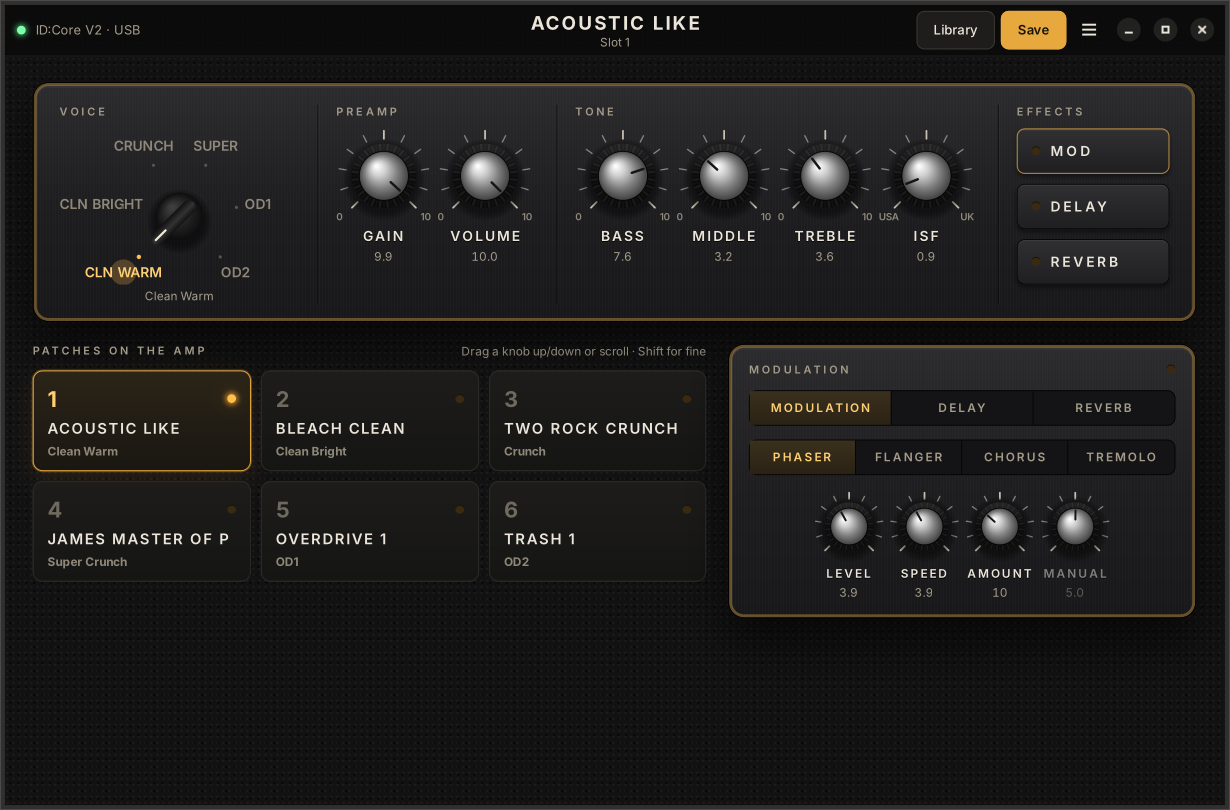
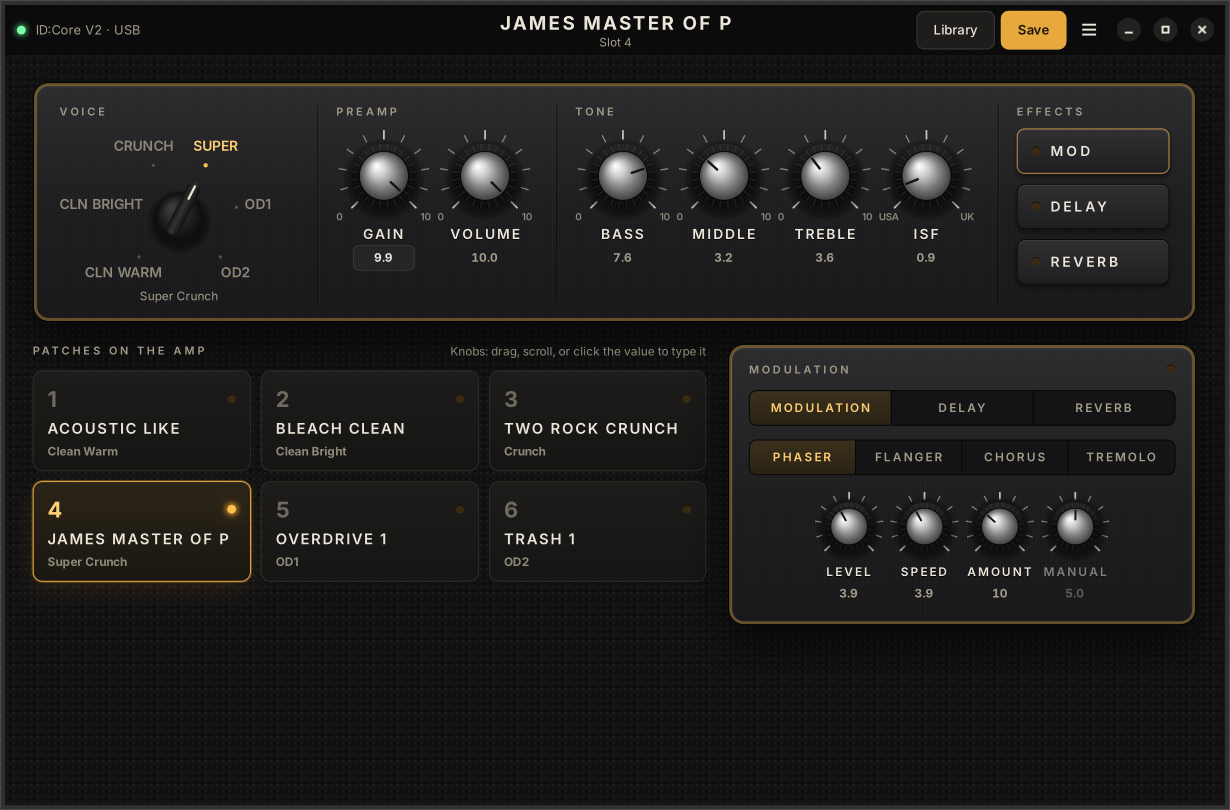
Make the knobs easier to set
Click a knob's value (or double-click the knob) for a popover with a
wide slider and a number field. Dragging works on both axes over a
longer travel, and a wheel notch moves 0.2 (Shift for the finest step).
Also round the ends of the segmented buttons and drop the halo behind
the selected voice.

diff --git a/bsamp/widgets.py b/bsamp/widgets.py
@@ -84,12 +84,16 @@ class Knob(Gtk.DrawingArea):
         self.grab_focus()
 
     def on_drag_update(self, g, dx, dy):
+        # Up or right turns it up; a full turn takes ~250 px (Shift: 4x finer)
         fine = g.get_current_event_state() & Gdk.ModifierType.SHIFT_MASK
-        span = (self.hi - self.lo) / (800 if fine else 200)
-        self.user_set(self._v0 - dy * span)
+        span = (self.hi - self.lo) / (1000 if fine else 250)
+        self.user_set(self._v0 + (dx - dy) * span)
 
     def on_scroll(self, c, dx, dy):
-        self.user_set(self.value - (1 if dy > 0 else -1) * self.step)
+        # One wheel notch = 0.2 on the 0-10 scale (Shift: the smallest step)
+        fine = c.get_current_event_state() & Gdk.ModifierType.SHIFT_MASK
+        step = self.step if fine else max(self.step, round((self.hi - self.lo) / 50))
+        self.user_set(self.value - (1 if dy > 0 else -1) * step)
         return True
 
     def on_key(self, c, keyval, code, state):
@@ -181,13 +185,27 @@ class Knob(Gtk.DrawingArea):
             cr.stroke()
 
 
-class KnobControl(Gtk.Box):
-    """Knob with its engraved name and a value readout."""
+# How a raw control value is shown and typed: (to display, from display,
+# display min, display max, step, digits, unit)
+UNITS = {
+    'knob': (lambda v: v / 12.7, lambda d: round(d * 12.7), 0, 10, 0.1, 1, ''),
+    'seg': (float, round, 0, 31, 1, 0, ''),
+    'ms': (float, lambda d: int(round(d / 10) * 10), 100, 2000, 10, 0, ' ms'),
+}
 
-    def __init__(self, label, lo, hi, fmt, size=96, ends=('0', '10')):
-        super().__init__(orientation=Gtk.Orientation.VERTICAL, spacing=4,
+
+class KnobControl(Gtk.Box):
+    """Knob with its engraved name and a value readout.
+
+    Besides dragging and scrolling, clicking the readout (or double-clicking
+    the knob) opens a popover with a wide slider and a number field."""
+
+    def __init__(self, label, lo, hi, kind, size=96, ends=('0', '10')):
+        super().__init__(orientation=Gtk.Orientation.VERTICAL, spacing=2,
                          halign=Gtk.Align.CENTER)
-        self.fmt = fmt
+        self.kind = kind
+        self.to_disp, self.from_disp, dlo, dhi, step, digits, self.unit = UNITS[kind]
+        self.digits = digits
         self.add_css_class('knob-control')
         over = Gtk.Overlay()
         self.knob = Knob(lo, hi, size, label=label)
@@ -202,15 +220,52 @@ class KnobControl(Gtk.Box):
         name = Gtk.Label(label=label.upper())
         name.add_css_class('knob-name')
         self.append(name)
-        self.readout = Gtk.Label()
-        self.readout.add_css_class('knob-value')
+
+        # readout = button that opens the fine-edit popover
+        self.readout = Gtk.Button(halign=Gtk.Align.CENTER, tooltip_text='Set exact value')
+        self.readout.add_css_class('knob-value-btn')
+        pop = self.popover = Gtk.Popover()
+        box = Gtk.Box(spacing=10, margin_top=10, margin_bottom=10, margin_start=12, margin_end=12)
+        self.adj = Gtk.Adjustment(lower=dlo, upper=dhi, step_increment=step,
+                                  page_increment=step * 10)
+        scale = Gtk.Scale(orientation=Gtk.Orientation.HORIZONTAL, adjustment=self.adj,
+                          draw_value=False, width_request=260)
+        spin = Gtk.SpinButton(adjustment=self.adj, digits=digits, numeric=True, width_chars=5)
+        spin.connect('activate', lambda *_: pop.popdown())
+        box.append(Gtk.Label(label=label))
+        box.append(scale)
+        box.append(spin)
+        pop.set_child(box)
+        pop.connect('show', lambda *_: spin.grab_focus())
+        pop.set_parent(self.readout)
+        self.readout.connect('clicked', lambda *_: pop.popup())
         self.append(self.readout)
-        self.knob.connect('changed', lambda _k, v: self.readout.set_label(fmt(v)))
-        self.readout.set_label(fmt(lo))
+        self._syncing = False
+        self.adj.connect('value-changed', self.on_adj)
+
+        dbl = Gtk.GestureClick()
+        dbl.connect('pressed', lambda g, n, x, y: n == 2 and pop.popup())
+        self.knob.add_controller(dbl)
+        self.knob.connect('changed', lambda _k, v: self.sync(v))
+        self.sync(lo)
+
+    def text(self, v):
+        d = self.to_disp(v)
+        return (f'{d:.{self.digits}f}' if self.digits else str(int(d))) + self.unit
+
+    def sync(self, v):
+        self.readout.set_label(self.text(v))
+        self._syncing = True
+        self.adj.set_value(self.to_disp(v))
+        self._syncing = False
+
+    def on_adj(self, adj):
+        if not self._syncing:
+            self.knob.user_set(self.from_disp(adj.get_value()))
 
     def set_value(self, v):
         self.knob.set_value(v)
-        self.readout.set_label(self.fmt(self.knob.value))
+        self.sync(self.knob.value)
 
     def connect_changed(self, cb):
         self.knob.connect('changed', lambda _k, v: cb(v))
@@ -296,10 +351,6 @@ class VoiceSelector(Gtk.DrawingArea):
             layout.set_text(text, -1)
             tw, th = layout.get_pixel_size()
             lx, ly = polar(cx, cy, r, self.angle(i))
-            if on:
-                cr.set_source_rgba(*rgb('#ffbf4d', 0.25))
-                cr.arc(lx, ly, 13, 0, 2 * math.pi)
-                cr.fill()
             cr.set_source_rgba(*rgb('#ffcf73' if on else '#8f8879'))
             cr.move_to(lx - tw / 2, ly - th / 2)
             PangoCairo.show_layout(cr, layout)

diff --git a/bsamp/gui.py b/bsamp/gui.py
@@ -59,6 +59,11 @@ window.amp, window.amp .amp-bg {
 .knob-name { font-family: "Barlow Condensed"; font-weight: 600; font-size: 14px; letter-spacing: 2px; color: #ece6da;
              text-shadow: 0 1px 0 rgba(0,0,0,.8); }
 .knob-value { font-family: Barlow; font-size: 12px; color: #a59c8a; font-feature-settings: "tnum"; }
+button.knob-value-btn { min-height: 24px; min-width: 44px; padding: 0 8px; border-radius: 6px; background: none;
+                           border: 1px solid transparent; box-shadow: none; color: #a59c8a;
+                           font-family: Barlow; font-size: 12px; font-feature-settings: "tnum"; }
+button.knob-value-btn:hover { border-color: #3a372f; background: rgba(255,255,255,.04); color: #ece6da; }
+button.knob-value-btn:active { border-color: #e7a83e; color: #ffcf73; }
 .knob-end { font-family: "Barlow Condensed"; font-weight: 600; font-size: 10px; color: #8f8879; }
 .small .knob-name { font-size: 12px; }
 
@@ -85,6 +90,8 @@ button.tile.on { border-color: #e7a83e; background-image: linear-gradient(180deg
 .tile-voice, .hint { font-family: Barlow; font-size: 12px; color: #8f8879; }
 
 .seg { border-radius: 8px; border: 1px solid #050505; background: #141416; }
+.seg button:first-child { border-top-left-radius: 7px; border-bottom-left-radius: 7px; }
+.seg button:last-child { border-top-right-radius: 7px; border-bottom-right-radius: 7px; }
 .seg button { min-height: 34px; padding: 0 10px; border-radius: 0; border: none; border-right: 1px solid #050505;
               background: none; box-shadow: none; color: #a59c8a;
               font-family: "Barlow Condensed"; font-weight: 600; font-size: 12px; letter-spacing: 2px; }
@@ -102,14 +109,6 @@ button.amp-btn.primary:hover { background: #f0b552; }
 .lib-row { padding: 12px; border-radius: 10px; background: #1e1d1b; border: 1px solid #2b2925; }
 .lib-name { font-family: "Barlow Condensed"; font-weight: 600; font-size: 15px; letter-spacing: 1.5px; }
 """
-
-
-def fmt_for(kind):
-    if kind == 'knob':
-        return lambda v: f'{v / 12.7:.1f}'
-    if kind == 'ms':
-        return lambda v: f'{int(v)} ms'
-    return lambda v: str(int(v))
 
 
 def load_fonts():
@@ -248,7 +247,7 @@ class Window(Adw.ApplicationWindow):
 
     def knob(self, ctl, title, kind, size=96, ends=('0', '10')):
         _cid, lo, hi = A.CONTROLS[ctl]
-        k = KnobControl(title, lo, hi, fmt_for(kind), size, ends)
+        k = KnobControl(title, lo, hi, kind, size, ends)
         if size < 96:
             k.add_css_class('small')
         k.connect_changed(lambda v, ctl=ctl: self.queue(ctl, v))
@@ -303,7 +302,7 @@ class Window(Adw.ApplicationWindow):
         box = Gtk.Box(orientation=Gtk.Orientation.VERTICAL, spacing=12, hexpand=True)
         head = Gtk.Box()
         head.append(label('PATCHES ON THE AMP', 'section-title', xalign=0, hexpand=True))
-        head.append(label('Drag a knob up/down or scroll · Shift for fine', 'hint'))
+        head.append(label('Knobs: drag, scroll, or click the value to type it', 'hint'))
         box.append(head)
         grid = Gtk.Grid(column_spacing=10, row_spacing=10, column_homogeneous=True)
         self.tiles = []
@@ -339,7 +338,7 @@ class Window(Adw.ApplicationWindow):
         head.append(self.fx_led)
         inner.append(head)
 
-        tabs = Gtk.Box(homogeneous=True)
+        tabs = Gtk.Box(homogeneous=True, overflow=Gtk.Overflow.HIDDEN)
         tabs.add_css_class('seg')
         self.fx_tabs = {}
         group = None
@@ -357,7 +356,7 @@ class Window(Adw.ApplicationWindow):
         self.type_buttons = {}
         for key, _s, _l, type_ctl, types in FX:
             page = Gtk.Box(orientation=Gtk.Orientation.VERTICAL, spacing=16)
-            seg = Gtk.Box(homogeneous=True)
+            seg = Gtk.Box(homogeneous=True, overflow=Gtk.Overflow.HIDDEN)
             seg.add_css_class('seg')
             group, btns = None, []
             for i, t in enumerate(types):

diff --git a/tests/screenshot.py b/tests/screenshot.py
@@ -36,6 +36,8 @@ def run_steps():
             win.on_tile(None, int(st[4:]))
         elif st.startswith('fx'):
             win.set_focus_fx(st[2:])
+        elif st == 'pop':
+            win.knobs['gain'].popover.popup()
         elif st == 'offline':
             win.disconnect_amp()
     GLib.timeout_add(900, lambda: (snap(out + '.png'), app.quit()))
